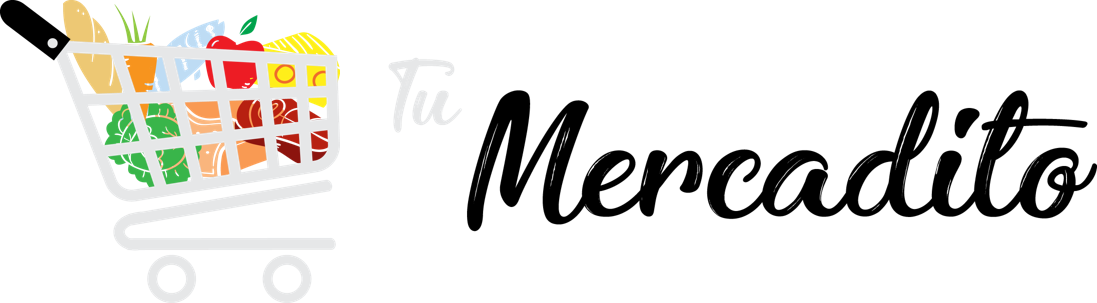
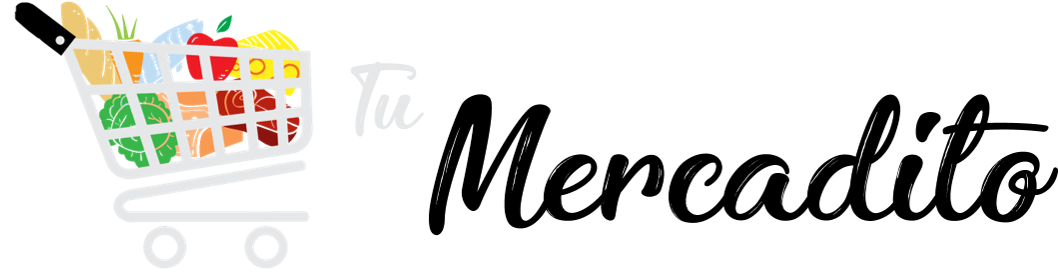
kjkjhk

Changed region(s): [[0.0, 0.0, 1.0, 0.8727], [0.0936, 0.7564, 0.3119, 1.0], [0.1248, 0.9309, 0.1871, 0.9891]]

diff --git a/src/app/checkout/checkout.component.html b/src/app/checkout/checkout.component.html
@@ -3,9 +3,8 @@
 <div class="container22">
 
 <div class="container">
-    <form (ngSubmit)="contactForm(form.value)" #form="ngForm" class="form">
-    <div class="modal-body">
-
+    
+    <div class="modal-body" style="overflow-x:auto;">
         <table class="table">
             <thead>
               <tr>
@@ -16,12 +15,11 @@
             </thead>
             <tbody>
               <tr *ngFor="let carro of carrito" class="data">
-                <td><input type="text" name="nombre" value="{{carro.nombre}}" readonly></td>
-                <td> <input type="text" name="precio" value="Bs. S {{carro.precio}}" readonly></td>
-                <td><input type="text" name="cant" value="{{carro.cant}}" readonly></td>
+                <td>{{carro.nombre}}</td>
+                <td>{{carro.precio}}</td>
+                <td>{{carro.cant}}</td>
               </tr>
             </tbody>
-            
             <th>TOTAL: Bs. S {{total()}}</th>
           </table>
   </div>
@@ -36,9 +34,11 @@
           Tu Mercadito!
       </h2>
     </div>
-
-  <h2>Formulario de Pedido</h2>
-  
+<div class="cont">
+    <h2>Formulario de Pedido</h2>
+</div>
+ 
+<form (ngSubmit)="contactForm(form.value)" #form="ngForm" class="form">
   <div class="form-group">
   <label>Nombre</label>
   <input type="text" class="form-control" name="nombre" ngModel>

diff --git a/src/app/navbar/navbar.component.html b/src/app/navbar/navbar.component.html
@@ -4,7 +4,8 @@
       <h1 class="texto">
            Bienvenidos a
          </h1>
-         <img src="/assets/horizontal.png" style="height: 72%; width:55%">
+         <div class="conta"><img src="/assets/horizontal.png" style="height: auto; width:100%"></div>
+         
   </div>
   <div class="sticky-top">
   <!--NAVBAR-->
@@ -18,13 +19,11 @@
           <li class="nav-item active">
             <a class="nav-link" routerLink="/inicio" style="color: green">Inicio</a>
           </li>
-          
           </ul>
           <ul  class="navbar-nav navbar-right" style="margin-left: 0px;">
               <li class="nav-item active">
                 <a class="nav-link" routerLink="/dashboard" style="color: green">Productos</a>
               </li>
-              
               </ul>
           <ul  class="navbar-nav navbar-right">
                 <li class="nav-item active" routerLink="/compra">

diff --git a/src/app/dashboard/dashboard.component.html b/src/app/dashboard/dashboard.component.html
@@ -18,8 +18,8 @@
 </div>
 
 <div class="card-deck">
-<div class="row">
-    <div class="col-3" *ngFor="let plato of platos" [class.invisible]="!(selectedFood==plato.tipo || selectedFood=='Show All')">
+<div class="row justify-content-center">
+    <div class="col-xs-6 col-sm-4 col-md-3" *ngFor="let plato of platos" [class.invisible]="!(selectedFood==plato.tipo || selectedFood=='Show All')">
       <div class="card">
           <img class="card-img-top" src="{{plato.img}}">
           <div class="card-block">
@@ -29,7 +29,6 @@
                 <input type="number" name="value1" id="value1" min="0"  />
            <br>
                 <span id="sum" class="precio">0.00 Bs. S</span>
-                
               <ul class="list-group list-group-flush">
                   <button class="btn" popover="Producto añadido a carrito"
                   popoverTitle="Exitoso"

diff --git a/src/app/carrito2/carrito2.component.html b/src/app/carrito2/carrito2.component.html
@@ -6,14 +6,14 @@
     <div >
       <div class="cart">
   
-            <img src="/assets/cart.png" alt="cart" style="width:100px;height:130px;">  
+            <img src="/assets/cart.png" alt="cart" style="width:100%;height:auto">  
          
          </div>
     </div>
     
     <div class="cont">
-    <div class="modal-body">
-          <table class="table">
+    <div class="modal-body" style="overflow-x:auto;">
+          <table class="table table-sm">
               <thead>
                 <tr>
                   <th scope="col">Productos</th>

diff --git a/src/app/checkout/checkout.component.css b/src/app/checkout/checkout.component.css
@@ -4,26 +4,25 @@
     height: 15vh;
     left: 30%;
     text-align: center;
-    padding: 30px;
-    padding-bottom: 7%;
+    padding-bottom: 20%;
     font-family: 'Anton', sans-serif;
     color: rgb(255, 116, 2);
     font-size: 50px;
 }
-
+.cont{
+    padding-top: 5px
+}
 .table{
     font-size: 20pt
 }
 .texto{
     font-size: 3vw;
-    
 }
 .texto1{
     font-size: 3vw;
     padding-bottom: 2%
 }
 .form{
-    
     border-color: black;
     align-items: center;
     align-content: center;

diff --git a/src/app/configMensaje.js b/src/app/configMensaje.js
@@ -12,7 +12,7 @@ module.exports = (formulario, mercado) => {
  }
  });
 
- transporter.use('complie', hbs({
+ transporter.use('compile', hbs({
      viewEngine: 'express-handlebars',
      viewPath: './views/'
 
@@ -21,7 +21,8 @@ const mailOptions = {
  from: 'guido23acuna@gmail.com',
  to: `guido23acuna@gmail.com`,
  subject: formulario.precio,
- text: formulario.nombre
+ text: formulario.nombre,
+ html: '<h1> hola<h1>'
  };
 
 transporter.sendMail(mailOptions, function (err, info) {

diff --git a/src/app/dashboard/dashboard.component.css b/src/app/dashboard/dashboard.component.css
@@ -20,9 +20,13 @@
     margin: auto;
     float: none
 }
-.col-3{
-    width: 25%;
-    padding-bottom: 2%
+.col-md-3{
+    padding-bottom: 2%;
+} .col-xs-6 {
+    padding-bottom: 2%;
+    width: 75%;
+}.col-sm-4{
+    padding-bottom: 2%;
 }
 .card{
     text-align: center;
@@ -31,8 +35,7 @@
     border-color: white;
     width: 100%;
     height: 100%;
-    padding-bottom: 2%
-    
+        
 }
 .texto{
     font-size: 3vw

diff --git a/src/app/carrito2/carrito2.component.css b/src/app/carrito2/carrito2.component.css
@@ -11,7 +11,16 @@
 .table{
     font-size: 20pt
 }
-
+.modal-body{
+    width: 100%;
+    height: auto
+}
+.cart{
+    height: auto;
+    width: 10%;
+    display:block;
+    margin:auto;
+}
 .hola{
     padding: 5px;
     align-content: center;

diff --git a/src/app/navbar/navbar.component.css b/src/app/navbar/navbar.component.css
@@ -13,6 +13,13 @@
 .texto{
     font-size: 3vw
 }
+.conta{
+    width: 48%;
+    height: auto;
+    display:block;
+    margin:auto;
+}
+
 .h1{
     padding-top: 20px;
     align-content: center; 

diff --git a/src/app/footer/footer.component.css b/src/app/footer/footer.component.css
@@ -4,5 +4,6 @@
     margin: 0;
     text-align: center;
     padding: 2%;
-    color:white
+    color:white;
+    font-family: 'Anton', sans-serif;
 }
